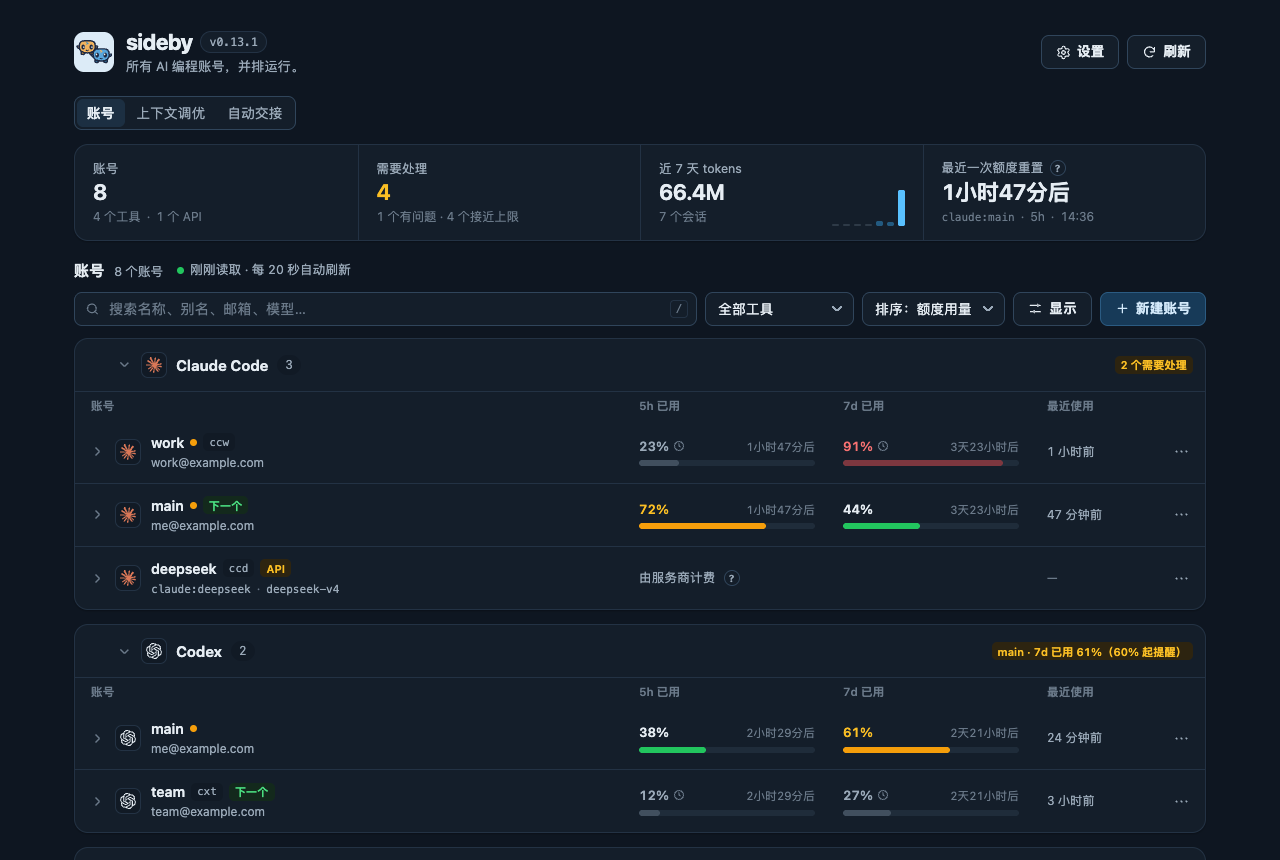
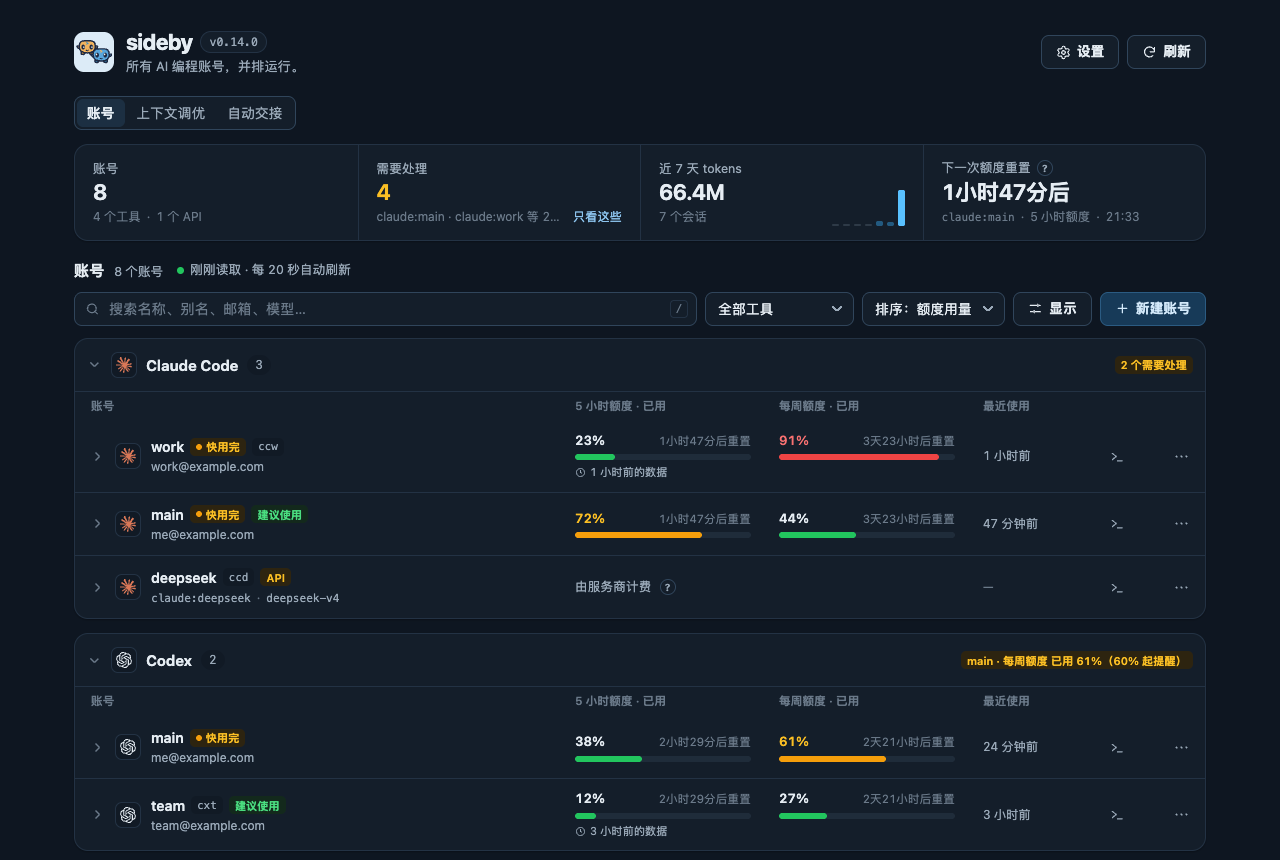
📝 docs(readme): retake the Panel screenshots and demo GIF, and list pins and your own order
The demo recorder finds the suggested account by its tag rather than the word Next, which the Panel now says as Suggested. The summary's filter link is shorter, so the English card no longer wraps.

diff --git a/scripts/record-demo.ts b/scripts/record-demo.ts
@@ -156,19 +156,20 @@ await until(
   'the Panel to load quota',
 )
 await new Promise((r) => setTimeout(r, 800))
-// Where the scene zooms and rings: the Claude Code group, work's 7-day window and the account marked Next.
+// Where the scene zooms and rings: the Claude Code group, work's 7-day window and the account marked Suggested
+// (found by its tag's button, not its words, which change with the language and the copy).
 const layout = await evaluate(`(() => {
   const box = (el) => { const r = el.getBoundingClientRect(); return [r.left, r.top, r.width, r.height] }
   const group = document.querySelector('section[data-key="g:claude"]')
   const work = document.querySelector('.row[data-ref="claude:work"]')
-  const next = [...(group?.querySelectorAll('.row') ?? [])].find((r) => [...r.querySelectorAll('.ident-name .tag')].some((t) => t.textContent.trim() === 'Next'))
+  const next = [...(group?.querySelectorAll('.row') ?? [])].find((r) => r.querySelector('.ident-name .tag-ok.tag-btn'))
   const week = work?.querySelector('.quota')?.children[1]
   if (!group || !week || !next) return null
   return { group: box(group), week: box(week), next: box(next), weekUsed: /\\d+%/.exec(week.innerText)?.[0], nextName: next.dataset.ref }
 })()`)
 if (!layout)
   fail(
-    'The Panel has no Claude Code group with claude:work and a Next account. Check scripts/demo-home.ts normal.',
+    'The Panel has no Claude Code group with claude:work and a Suggested account. Check scripts/demo-home.ts normal.',
   )
 const panelPng = join(work, 'panel.png')
 writeFileSync(panelPng, await screenshot())

diff --git a/src/panel/i18n.ts b/src/panel/i18n.ts
@@ -152,8 +152,8 @@ const en = {
   'stat.api.one': '{n} API',
   'stat.api.other': '{n} API',
   'stat.attention': 'Needs attention',
-  'stat.attentionOn': 'Show only these accounts',
-  'stat.attentionOff': 'Show all accounts',
+  'stat.attentionOn': 'Show only these',
+  'stat.attentionOff': 'Show all',
   'stat.btnLabel': '{label}: {value} ({sub}). {action}',
   'stat.allClear': 'All clear',
   'stat.tokens': 'Tokens · {n} days',
@@ -967,8 +967,8 @@ const zh: Record<MessageKey, string> = {
   'stat.api.one': '{n} 个 API',
   'stat.api.other': '{n} 个 API',
   'stat.attention': '需要处理',
-  'stat.attentionOn': '只看这些账号',
-  'stat.attentionOff': '显示全部账号',
+  'stat.attentionOn': '只看这些',
+  'stat.attentionOff': '显示全部',
   'stat.btnLabel': '{label}：{value}（{sub}）。{action}',
   'stat.allClear': '一切正常',
   'stat.tokens': '近 {n} 天 tokens',

diff --git a/docs/assets/demo.html b/docs/assets/demo.html
@@ -841,7 +841,7 @@
         add('#cap2', { opacity: 0, y: -12, filter: 'blur(6px)' }, { duration: 0.35, at: tZoom + 0.6 })
         add('#cap3', { opacity: [0, 1], y: [12, 0], filter: ['blur(6px)', 'blur(0px)'] }, { duration: 0.5, at: tZoom + 0.85 })
 
-        // The ring lands on work's 7-day window, then glides to the account marked Next.
+        // The ring lands on work's 7-day window, then glides to the account marked Suggested.
         const px = ([x, y, w, h], pad) => ({
           left: `${(x - pad) * K}px`,
           top: `${(y - pad) * K}px`,

diff --git a/README.md b/README.md
@@ -78,6 +78,7 @@ cc-switch's docs describe that switch: it writes the live settings file ([README
 | Find the cheapest auto-compact size from your own sessions, and use it in one click | `sideby tune` (or the panel's Context tuning tab) | [Context tuning](docs/guide/usage.md#context-tuning) |
 | See each account's model and effort, and set them per account | `sideby model <account>` (or click the model in the panel) | [Model and effort](docs/guide/usage.md#model-and-effort) |
 | Choose whether Claude sessions connect to claude.ai by themselves (Remote Control), for every account at once | `sideby remote-control off` or `on` (or the panel's Settings) | [Remote Control](docs/guide/usage.md#remote-control) |
+| Pin the accounts you use most and put tools and accounts in your own order | `sideby pin claude:work`, `sideby order` (or the panel's Settings) | [Your own order](docs/guide/usage.md#your-own-order) |
 | Move on when an account hits its limit | `sideby next claude` | [Handoff](docs/guide/usage.md#when-an-account-hits-its-limit) |
 | Let a running task move to the next account by itself when quota runs low (off by default; see the risk) | `sideby handoff enable` (or the panel) | [Auto Handoff](docs/guide/usage.md#auto-handoff) |
 | Short commands such as `ccw` | `sideby alias add ccw claude:work` | [Shell functions](docs/guide/configuration.md#shell-functions) |
